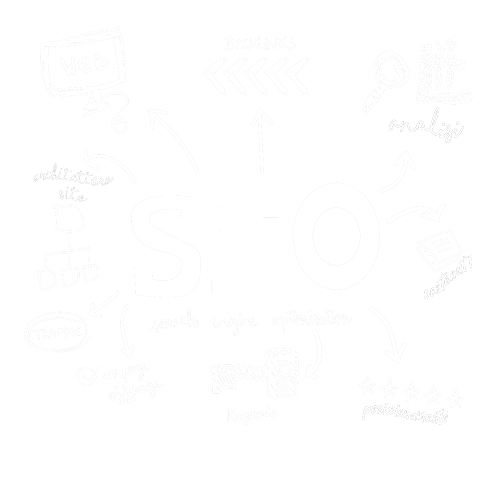
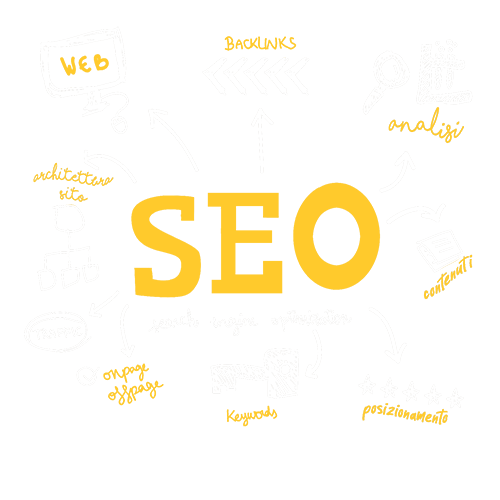
#6 Creazione sezione Chi sono

diff --git a/index.html b/index.html
@@ -22,38 +22,38 @@
               <a class="nav-link active" aria-current="page" href="#">Home</a>
             </li>
             <li class="nav-item">
-              <a class="nav-link" href="#sezione-seo">Servizi SEO</a>
+              <a class="nav-link" href="#seo">Servizi SEO</a>
             </li>
             <li class="nav-item">
-              <a class="nav-link" href="#">Chi sono</a>
+              <a class="nav-link" href="#chi-sono">Chi sono</a>
             </li>
             <li class="nav-item">
-              <a class="nav-link" href="#">Contatti</a>
+              <a class="nav-link" href="#contatti">Contatti</a>
             </li>
             <li class="nav-item">
               <a class="nav-link" href="#">Blog</a>
             </li>
           </ul>
-          <a class="navbar-brand" href="#">
+          <a class="navbar-brand" href="tel:+393397957049">
             <i class="bi bi-telephone"></i>
           </a>
-          <a class="navbar-brand" href="#">
+          <a class="navbar-brand" href="mailto:m.tu@live.it">
             <i class="bi bi-envelope"></i>
           </a>
-          <a class="navbar-brand" href="#">
+          <a class="navbar-brand" href="https://www.facebook.com/maurizio.d.tullio.1" target="_blank">
             <i class="bi bi-facebook"></i>
           </a>
-          <a class="navbar-brand" href="#">
+          <a class="navbar-brand" href="https://www.instagram.com/malurissio/" target="_blank">
             <i class="bi bi-instagram"></i>
           </a>
-          <a class="navbar-brand" href="#">
+          <a class="navbar-brand" href="https://www.linkedin.com/in/maurizio-di-tullio-51559794/" target="_blank">
             <i class="bi bi-linkedin"></i>
           </a>
 
         </div>
       </div>
     </nav>
-    <section class="container-fluid home" id="sezione-home">
+    <section class="container-fluid sezione-home" id="home">
       <div class="row">
         <div class="col-lg-3 col-sm-2 offset-1">
           <h1 class="display-1">Junior SEO Specialist </h1>
@@ -68,7 +68,7 @@
         </div>
       </div>
     </section>
-    <section class="container-fluid seo" id="sezione-seo">
+    <section class="container-fluid sezione-seo" id="seo">
       <div class="row">
         <div class=" col offset-1">
           <h2 class="display-4">Hai bisogno di un <span class="giallo">SEO Specialist</span>?</h2>
@@ -76,19 +76,86 @@
         <div class="row">
           <div class="col-lg-5 offset-lg-1">
             <h3> Cos'è la <span class="giallo">SEO?</span></h3>
-              <p>La SEO identifica quel ramo del digital marketing che si occupa dell'<strong>ottimizzazione</strong> dei siti web e del loro <strong>posizionamento</strong> sui <a href="#">motori di ricerca</a>.
+              <p>La SEO identifica quel ramo del digital marketing che si occupa dell'<strong class="giallo">ottimizzazione</strong> dei siti web e del loro <strong class="giallo">posizionamento</strong> sui <a href="#">motori di ricerca</a>.
               Se hai bisogno di migliorare la tua presenza online per raggiungere un pubblico più ampio oppure di risolvere problemi che affliggono il tuo sito, il SEO Specialist è la figura che fa per te. </p>
             <h3> Cosa fa il <span class="giallo">SEO Specialist?</span></h3>
-                <p>Il SEO Specialist si assicura che il sito web ed i relativi contenuti siano posizionati per le giuste parole chiave (<em>keywords</em>), poi passa all'analisi volta a tracciare
+                <p>Il SEO Specialist si assicura che il sito web ed i relativi contenuti siano posizionati per le giuste <strong class="giallo">parole chiave</strong>
+
+
+                  (<em>keywords</em>), poi passa all'analisi volta a tracciare
                 e risolvere eventuali problemi tecnici o relativi alla SEO Copywriting. L'ottimizzazione aiuta i motori di ricerca a comprendere meglio i contenuti delle pagine e di conseguenza a posizionarle meglio.
               In più ci assicuriamo che i contenuti siano utili e pertinenti alle ricerche degli utenti.</p>
           </div>
-          <div class="img-fluid col-lg-3 offset-1">
-            <img src="img/illustrazione-seo-giallo.png"alt="Di cosa si occupa la SEO"/>
+          <div class="col-lg-5 offset-lg-1">
+          <div class="img-fluid col-lg-3">
+            <img src="img/illustrazione-seo.png" alt="Di cosa si occupa la SEO"/>
           </div>
         </div>
+        </div>
       </section>
-
+    <section class="container-fluid sezione-chi-sono" id="chi-sono">
+      <div class="row">
+        <div class=" col offset-1">
+          <h2 class="display-4">Ciao, sono <span class="giallo">Maurizio</span>.</h2>
+        </div>
+      <div class="row">
+        <div class="col-lg-5 offset-lg-1">
+          <h3> Voglio raccontarti qualcosa di <span class="giallo">me</span>...</h3>
+          <p>
+            Il mio viaggio nel mondo del digitale ha avuto inizio durante il periodo scolastico,
+            quando ho avuto modo di cominciare ad utilizzare un pc prevalentemente per ricerche legate alla scuola.<br/>
+            Successivamente ho maturato un certo interesse per l'<strong class="giallo">editing di immagini</strong>
+            iniziando a smanettare con diversi software per il fotoritocco,
+            e decidendo poi di approfondire quelle conoscenze frequentando corsi di <strong class="giallo">grafica pubblicitaria</strong>
+            dove per la prima volta ho sentito parlare di <strong class="giallo">sviluppo web</strong> e di linguaggi di programmazione,
+            che sono diventati la mia nuova passione.<br/>
+            A fine 2020 ho intrapreso un percorso di studi su <a href="https://talent.start2impact.it/profile/maurizio-di-tullio" target="_blank">Start2Impact</a>,
+            una startup che offre la possibilità di formarsi e fare pratica
+            nelle professioni considerate come "lavori del futuro".
+            In particolare, ho scelto di dedicarmi allo studio della <strong class="giallo">SEO</strong> mettendo
+            in pratica le conoscenze apprese attraverso progetti pratici.
+          </p>
+        </div>
+        <div class="col-lg-4 offset-lg-1">
+          <table class="table">
+            <thead>
+              <tr>
+                <th>Le mie skills</th>
+              </tr>
+            </thead>
+            <tbody>
+              <tr>
+                <td>SEO <br><img class="img-fluid" style="width:70px" src="img/logo-seo.svg" alt="Logo SEO">
+                </td>
+                <td>Excel <br><img class="img-fluid" style="width:70px" src="img/logo-excel.svg" alt="Logo di Microsoft Excel">
+                </td>
+              </tr>
+              <tr>
+                <td>Photoshop <br><img class="img-fluid" style="width:70px" src="img/logo-photoshop.svg" alt="Logo di Adobe Photoshop">
+                </td>
+                <td>Illustrator <br><img class="img-fluid" style="width:70px" src="img/logo-illustrator.svg" alt="Logo di Adobe Illustrator">
+                </td>
+              </tr>
+              <tr>
+                <td>HTML <br><img class="img-fluid" style="width:70px" src="img/logo-html.svg" alt="Logo Html5">
+                </td>
+                <td>CSS <br><img class="img-fluid" src="img/logo-css.svg" style="width:70px" alt="Logo CSS3">
+                </td>
+              </tr>
+            </tbody>
+          </table>
+        </div>
+    </section>
+    <section class="container-fluid sezione-contatti" id="contatti">
+      <div class="row">
+        <div class=" col offset-1">
+          <h2 class="display-4">Facciamo quattro <span class="giallo">chiacchiere</span>.</h2>
+        </div>
+        <div class="row">
+          <div class="col-lg-5 offset-lg-1">
+            <h3> Voglio raccontarti qualcosa di <span class="giallo">me</span>...</h3>
+          </div>
+    </section>
     <!-- Bootstrap Bundle with Popper -->
     <script src="https://cdn.jsdelivr.net/npm/bootstrap@5.1.0/dist/js/bootstrap.bundle.min.js" integrity="sha384-U1DAWAznBHeqEIlVSCgzq+c9gqGAJn5c/t99JyeKa9xxaYpSvHU5awsuZVVFIhvj" crossorigin="anonymous"></script>
   </body>

diff --git a/style.css b/style.css
@@ -7,17 +7,17 @@ body {
   font-family: 'Lato', sans-serif;
 }
 .navbar a:hover {
-  color: yellow  !important;
+  color: #FFCA2C  !important;
 }
 .nav-item {
   margin-left: 5%;
 }
 
 .bi:hover {
-  color: yellow;
+  color: #FFCA2C;
 }
 
-.home {
+.sezione-home {
   width: 100%;
   height: 700px;
   background: url(img/foto-maurizio-bw-2.jpg);
@@ -25,50 +25,68 @@ body {
 }
 
 
- .home h1 {
+ .sezione-home h1 {
    color: white;
    margin-top: 35%;
    font-weight: 700;
  }
 
- .home h2 {
+ .sezione-home h2 {
    color: #e6e6e6;
    margin-top: 5%;
    font-family: "Open Sans";
    font-weight: 300;
  }
 
-.home button {
+.sezione-home button {
   margin-top: 5%;
 }
 
-.seo {
+.sezione-seo, .sezione-chi-sono, .sezione-contatti {
   color: white;
   height: 700px;
 }
-.seo h2 {
+.sezione-seo h2, .sezione-chi-sono h2, .sezione-contatti h2 {
   margin-top: 6%;
   font-weight: 400;
 }
 
-.seo h3 {
+.sezione-seo h3 {
   margin-top: 5%;
 }
 
-.seo p {
+.sezione-seo p, .sezione-chi-sono p {
   text-align: justify;
   font-family: "Open Sans";
   font-weight: 300;
 }
 
-.seo a:hover, .seo a:visited:hover {
-  color: yellow;
+.sezione-seo a:hover, .sezione-seo a:visited:hover, .sezione-chi-sono a:hover,
+.sezione-chi-sono a:visited:hover {
+  color: #FFCA2C;
 }
 
-.seo a:visited {
+.sezione-seo a:visited, .sezione-chi-sono a:visited {
   color: white;
 }
 
 .giallo {
-  color: yellow;
+  color: #FFCA2C;
+}
+
+.sezione-chi-sono h3, .sezione-contatti h3 {
+  margin-top: 3%;
+  font-weight: 400;
+}
+
+.table {
+  font-family: "Open Sans";
+  text-align: center;
+  color: white;
+  border-color: black;
+}
+
+thead {
+  text-align: center;
+  color: #FFCA2C;
 }
